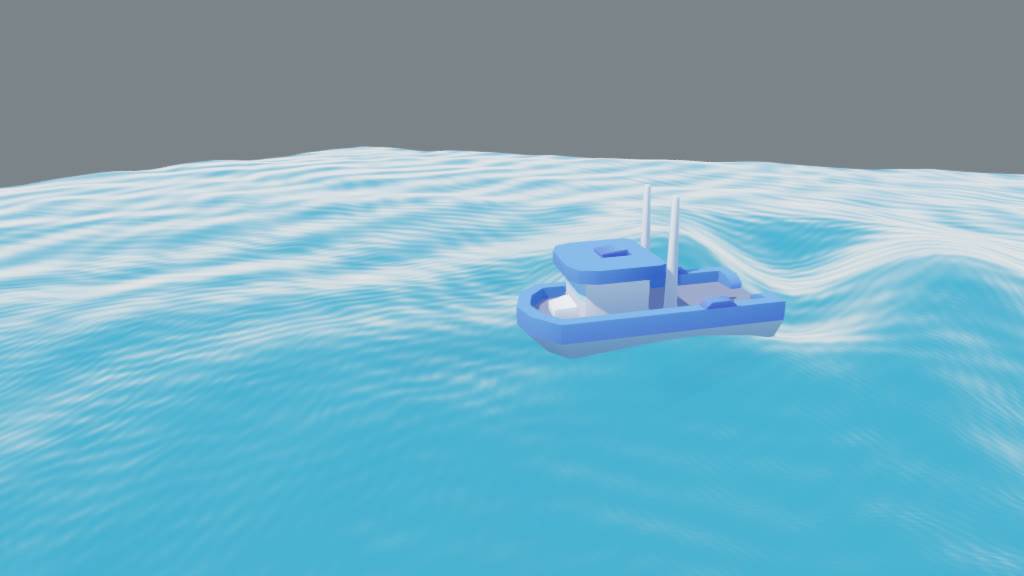
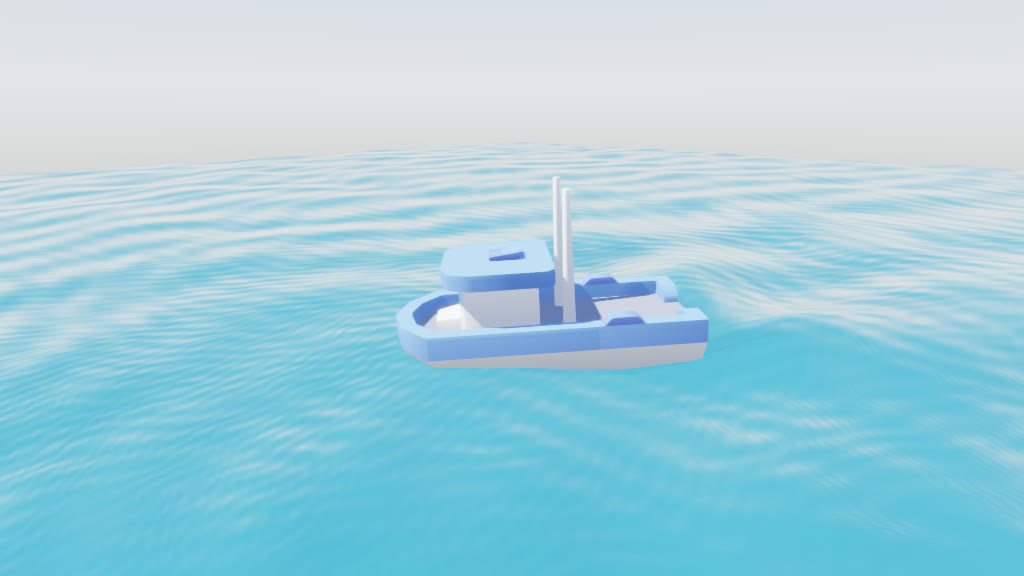
Open the boat wake into a V and reframe the boat clip (#982)
The wake trail now starts narrow at the stern and widens and fades with age, with denser foam, so it reads as a trail and not a ring. The clip uses a calmer sea, a sky, a deeper draft (density 550) and a closer camera.

diff --git a/src/ocean-wake.js b/src/ocean-wake.js
@@ -9,7 +9,10 @@ export const WAKE_FOAM_REACH = 3;
 const DEFAULT_WAKE_HEIGHT = 0.12;
 const MAXIMUM_WAKE_HEIGHT = 2;
 const REFERENCE_SPEED = 3;
-const SPREAD_PER_LIFETIME = 2;
+// The trail starts this fraction of `width` wide at the stern and spreads by this multiple of `width` over its life: a V that opens.
+const STERN_WIDTH_FRACTION = 0.25;
+const SPREAD_PER_LIFETIME = 1.75;
+const FOAM_GAIN = 1.6;
 const MINIMUM_STRENGTH = 0.01;
 
 function describe(value) {
@@ -53,7 +56,7 @@ export function wakeAt(wake, positionX, positionZ) {
     const distance = Math.hypot(positionX - pointX, positionZ - pointZ) / width;
     if (distance > WAKE_FOAM_REACH) continue;
     const falloff = Math.exp(-distance * distance / 2);
-    foam = Math.max(foam, strength * falloff);
+    foam = Math.max(foam, Math.min(1, FOAM_GAIN * strength * falloff));
     // A negative Ricker profile: a trough on the track and a ridge on both sides.
     offset -= wake.height * strength * (1 - distance * distance) * falloff;
   }
@@ -62,7 +65,7 @@ export function wakeAt(wake, positionX, positionZ) {
 
 /**
  * The wake points of a hull at `time`: the last `lifetime` seconds of its path, `count` samples (at most 64) evenly spaced.
- * `sample(time)` returns the stern as { x, z, speed }. Older points are weaker and wider, and a slow hull leaves little.
+ * `sample(time)` returns the stern as { x, z, speed }. The newest point is narrow and strong and older ones are wider and weaker, so the trail opens like a V and fades out. Keep `lifetime` short enough that a turning hull does not cross its own trail.
  */
 export function wakeTrail({ sample, time, lifetime, width, strength, count = MAX_WAKE_POINTS }) {
   const points = [];
@@ -74,7 +77,7 @@ export function wakeTrail({ sample, time, lifetime, width, strength, count = MAX
     const fade = (1 - age / lifetime) ** 2;
     const pointStrength = strength * Math.min(1, stern.speed / REFERENCE_SPEED) * fade;
     if (pointStrength < MINIMUM_STRENGTH) continue;
-    points.push([stern.x, stern.z, pointStrength, width * (1 + SPREAD_PER_LIFETIME * age / lifetime)]);
+    points.push([stern.x, stern.z, pointStrength, width * (STERN_WIDTH_FRACTION + SPREAD_PER_LIFETIME * age / lifetime)]);
   }
   return points;
 }

diff --git a/tests/ocean-wake.test.js b/tests/ocean-wake.test.js
@@ -26,6 +26,22 @@ test('older points are weaker and wider, and the oldest are nearly gone', () => 
   assert.ok(points.at(-1)[2] < 0.05);
 });
 
+test('the trail is an open V: narrow at the stern, widening and fading with age, and it does not close on itself in a turn', () => {
+  const radius = 8;
+  const speed = 4;
+  const turning = time => ({ x: radius * Math.sin(speed * time / radius), z: radius * (1 - Math.cos(speed * time / radius)), speed });
+  const points = wakeTrail({ sample: turning, time: 20, lifetime: 3, width: 1.6, strength: 1 });
+  assert.ok(points[0][3] < 0.5, `stern width ${points[0][3]}`);
+  assert.ok(points.at(-1)[3] > 3 * points[0][3], 'the oldest point is much wider than the newest');
+  const ages = points.map((_, index) => index);
+  assert.deepEqual(ages, [...ages].sort((first, second) => first - second));
+  for (let index = 1; index < points.length; index++) {
+    assert.ok(points[index][3] > points[index - 1][3] && points[index][2] < points[index - 1][2]);
+  }
+  const gap = Math.hypot(points[0][0] - points.at(-1)[0], points[0][1] - points.at(-1)[1]);
+  assert.ok(gap > points.at(-1)[3] + points[0][3], `the ends are ${gap} m apart, wider than their foam`);
+});
+
 test('a hull at rest leaves no wake and the trail starts no earlier than time 0', () => {
   assert.equal(wakeTrail({ sample: () => ({ x: 0, z: 0, speed: 0 }), time: 10, lifetime: 5, width: 1, strength: 1 }).length, 0);
   const early = wakeTrail({ sample: MOVING_STERN, time: 1, lifetime: 6, width: 1, strength: 1 });
